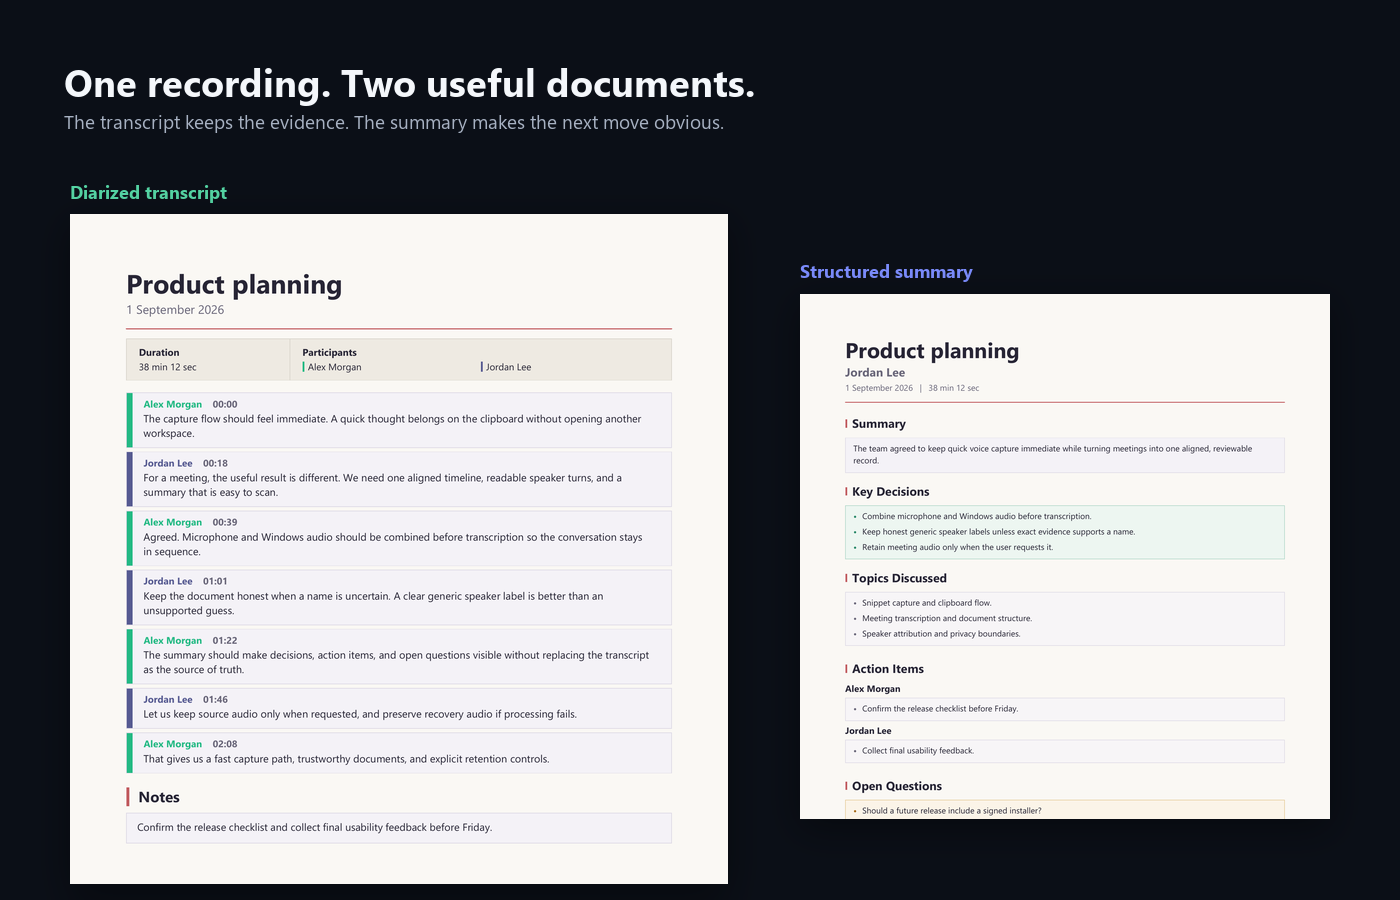
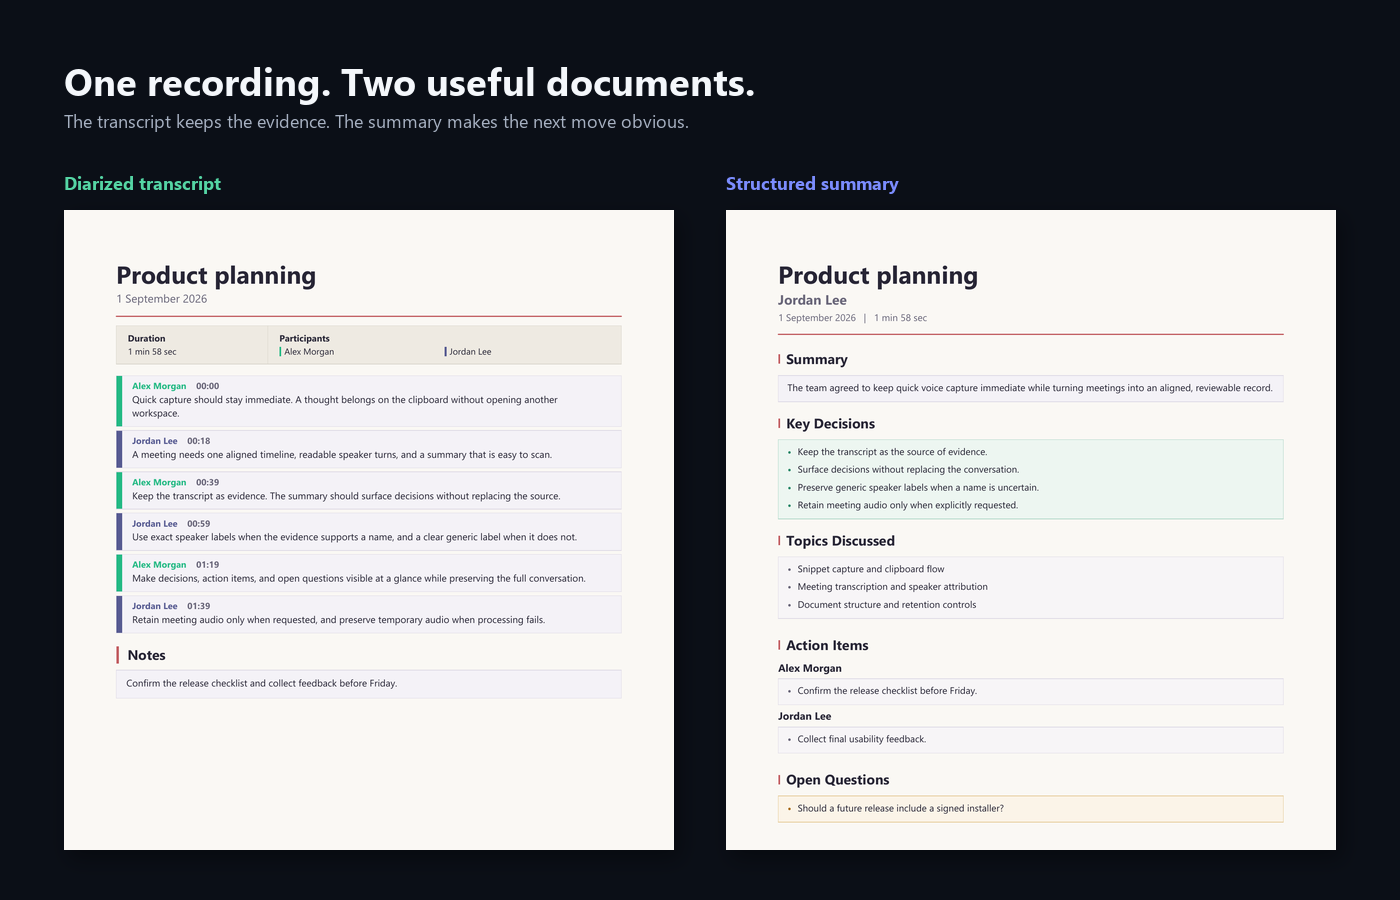
Polish setup and README guidance

Changed region(s): [[0.0307, 0.1867, 0.9521, 0.9956], [0.0307, 0.0933, 0.5221, 0.1556], [0.7986, 0.4978, 0.8907, 0.5289]]

diff --git a/src/ui/setup_window.py b/src/ui/setup_window.py
@@ -134,11 +134,6 @@ class SetupWindow(QDialog):
         title = QLabel("Welcome to Koe")
         title.setObjectName("windowTitle")
         root.addWidget(title)
-
-        subtitle = QLabel("Add your details once, then Koe is ready whenever you are.")
-        subtitle.setObjectName("windowSubtitle")
-        subtitle.setWordWrap(True)
-        root.addWidget(subtitle)
         root.addSpacing(10)
 
         form = QFormLayout()
@@ -171,7 +166,10 @@ class SetupWindow(QDialog):
         root.addLayout(form)
 
         help_label = QLabel(
-            '<a href="https://elevenlabs.io/app/settings/api-keys">Create or copy an ElevenLabs API key</a>'
+            '<a href="https://elevenlabs.io/app/api/api-keys">'
+            f'<span style="color: {theme.LINK_COLOR};">'
+            "Create or copy an ElevenLabs API key"
+            "</span></a>"
         )
         help_label.setOpenExternalLinks(True)
         help_label.setObjectName("windowSubtitle")

diff --git a/tests/unit/test_setup_window.py b/tests/unit/test_setup_window.py
@@ -6,6 +6,27 @@ import yaml
 sys.path.insert(0, str(Path(__file__).parent.parent.parent / "src"))
 
 
+def test_setup_window_uses_readable_current_api_key_link(monkeypatch):
+    monkeypatch.setenv("QT_QPA_PLATFORM", "offscreen")
+
+    from PyQt5.QtWidgets import QApplication, QLabel
+    from ui import theme
+    from ui.setup_window import SetupWindow
+
+    app = QApplication.instance() or QApplication([])
+    window = SetupWindow()
+    labels = [label.text() for label in window.findChildren(QLabel)]
+    combined = " ".join(labels)
+
+    assert "Welcome to Koe" in labels
+    assert "Add your details once" not in combined
+    assert "https://elevenlabs.io/app/api/api-keys" in combined
+    assert theme.LINK_COLOR.lower() in combined.lower()
+
+    window.close()
+    app.processEvents()
+
+
 def test_first_run_defaults_have_empty_custom_corrections(monkeypatch):
     from paths import config_path
     from ui.setup_window import write_setup_files

diff --git a/README.md b/README.md
@@ -34,47 +34,16 @@ Scribe aligns microphone and loopback audio into **one mono timeline** before
 uploading it. That avoids two separately transcribed recordings drifting out of
 sync, duplicating speakers, or doubling the transcription work.
 
-## How it fits together
-
-```mermaid
-flowchart LR
-    H["Snippet hotkey"] --> M["In-memory audio"]
-    S["Scribe window"] --> A["Mic + Windows loopback"]
-    A --> X["Aligned mono mix"]
-    M --> T["ElevenLabs Scribe v2"]
-    X --> T
-    T --> C["Local corrections + speaker checks"]
-    C --> B["Clipboard"]
-    C --> P["Transcript PDF"]
-    C --> R["OpenRouter summary<br/>optional, ZDR required"]
-    R --> Q["Summary PDF"]
-
-    classDef capture fill:#252E52,stroke:#7C8DFF,color:#F4F7FB
-    classDef core fill:#171F2E,stroke:#93A1FF,color:#F4F7FB
-    classDef output fill:#142A25,stroke:#55D6A5,color:#F4F7FB
-    classDef optional fill:#321A22,stroke:#FF6F79,color:#F4F7FB
-    class H,S,A,M,X capture
-    class T,C core
-    class B,P,Q output
-    class R optional
-```
-
 <p align="center">
   <img src="assets/readme/documents.png" alt="Synthetic Koe transcript and summary PDF examples" width="100%">
 </p>
 
-### Modularity, honestly
-
-Koe is modular around the workflow, but it is not pretending every provider is
-interchangeable:
+### Built in layers
 
 - **Capture, transcription, correction, speaker resolution, summarisation, and
-  document rendering are separate modules.** A different transcription service
-  would not require rewriting the tray app, capture engine, or PDF pipeline.
-- **Speech-to-text is intentionally Scribe-specific today.** The request shape,
-  diarization data, deletion by transcription ID, and safety checks are built
-  around ElevenLabs Scribe v2. Supporting another API is a contained adapter
-  project, not a one-line model-name swap.
+  document rendering are separate modules.** ElevenLabs Scribe v2 is the current
+  transcription adapter; the capture, correction, and document stages do not
+  depend on its interface.
 - **The summary model is easy to swap within OpenRouter.** It is selected in one
   place and sits behind a structured JSON contract. A replacement model still
   needs to honour that contract and pass the summary tests.
@@ -104,9 +73,11 @@ For the exact meeting modes, storage paths, and failure behaviour, see the
 
 ## Run from source
 
-Koe currently targets **Windows 11** and **Python 3.13**. It requires an
-ElevenLabs API key; an OpenRouter key is needed only for model-assisted meeting
-summaries and contextual speaker resolution.
+Koe currently targets **Windows 11** and **Python 3.13**. Create an
+[ElevenLabs API key](https://elevenlabs.io/app/api/api-keys) with only
+**Speech to Text → Access** enabled. Koe does not require User, History, or any
+administrative permission. An OpenRouter key is needed only for model-assisted
+meeting summaries and contextual speaker resolution.
 
 ```powershell
 python -m venv .venv
